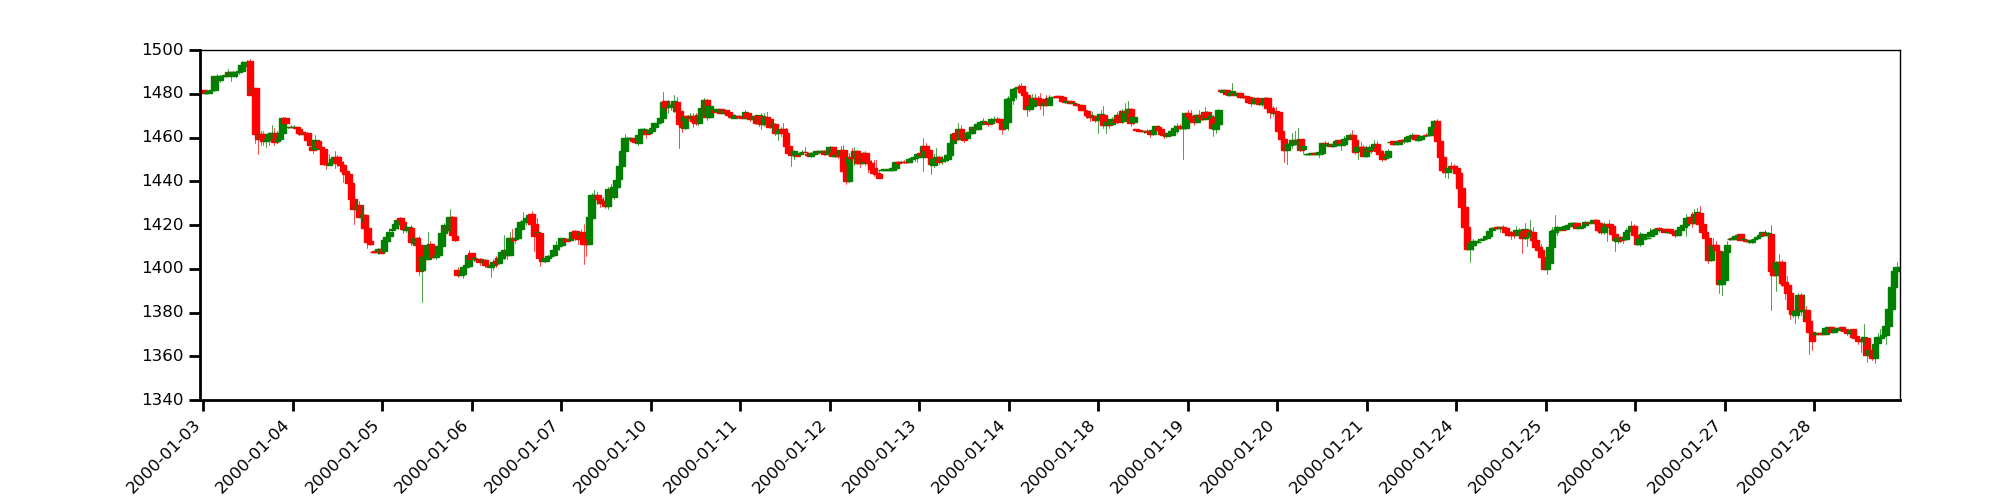
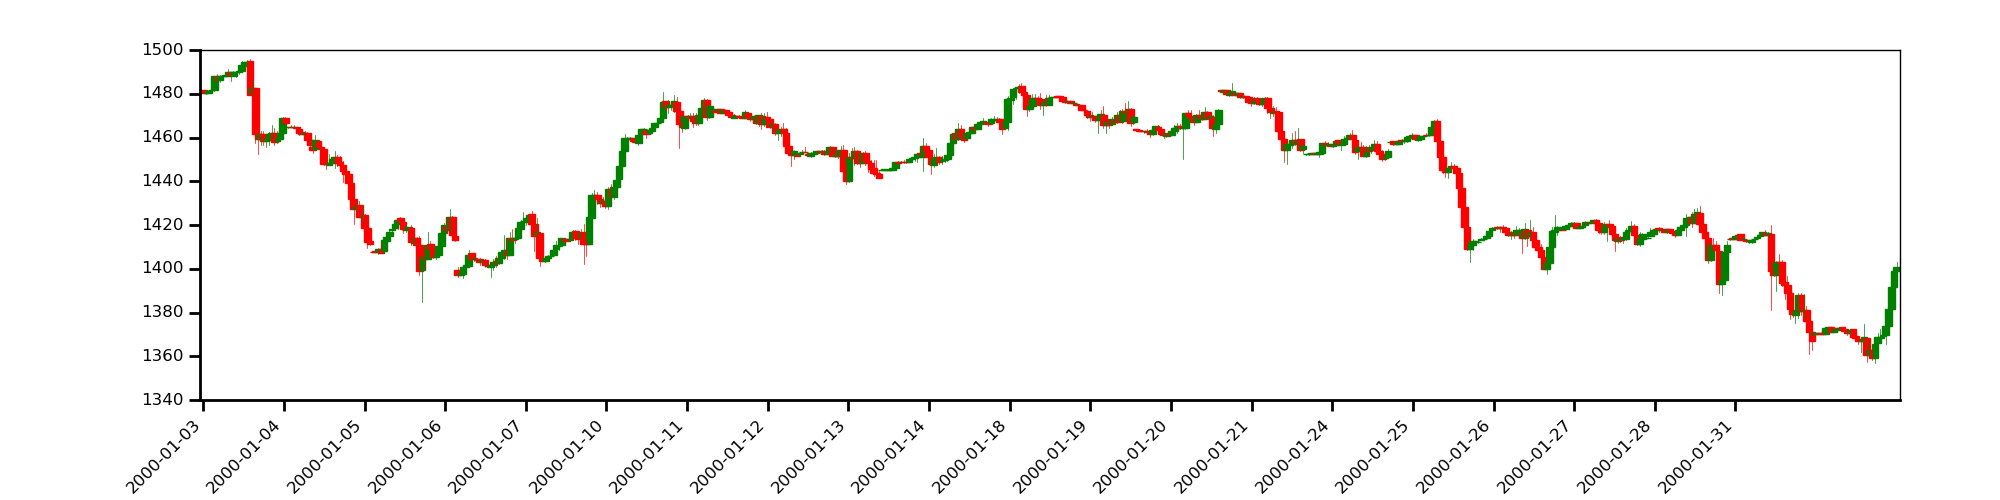
gsstgrgrgyr

Changed region(s): [[0.093, 0.84, 0.558, 0.99], [0.496, 0.84, 0.899, 0.99]]

diff --git a/analize/charting_data.py b/analize/charting_data.py
@@ -37,10 +37,10 @@ for i in range(1):  # len(df.columns)):
     for n in np.arange(day_count):
         xdays.append(datetime.date.isoformat(num2date(ndays[0][n])))
 
-    diff = (price['num_date'][len(price['new_date'])-1]-price['new_date'][0]) / (day_count+1)
+    diff = (price['new_date'][len(price['new_date'])-1]-price['new_date'][0]) / (day_count+1)
     print day_count
     print diff
-    newdays = [price['num_date'][0] + i * diff/2 for i in np.arange(day_count)]
+    newdays = [price['new_date'][0] + i * diff for i in np.arange(day_count)]
     
     fig = plt.figure(figsize=(20, 5))
     ax = fig.add_axes([0.1, 0.2, 0.85, 0.7])
